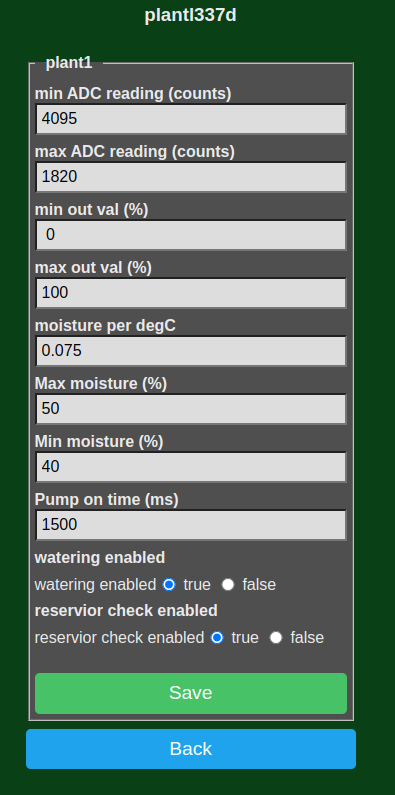
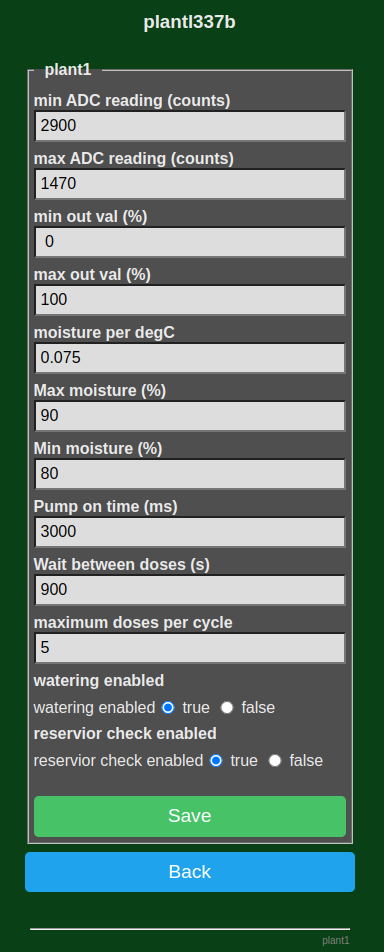
Document new watering configuration options. (#18)
* Document new watering configuration options.
* update watering config image

diff --git a/instructions.md b/instructions.md
@@ -48,7 +48,12 @@ Then, for each plant to be watered:
 
     ![web MQTT config](images/web-mqtt-config.png)
 
-12. In the device web interface, select the plant to be configured, then press "Configure".  Select the minimum and maximum soil moisture levels you want, and select the number of seconds you want the pump to run at each iteration of watering.  Try 1 second for a small pot and 3 seconds for a medium-sized pot. You can also calibrate the moisture sensor. Put the moisture sensor in a glass of water so that all except the cap is covered by water, and enter the ADC reading as the "max ADC reading". Remove the sensor out of the glass and dry it off, then enter the ADC reading as the "min ADC reading." Confusingly, the counts for the max reading should be less than the counts for the min reading, because max and min here refer to the moisture level not the counts.
+12. In the device web interface, select the plant to be configured, then press "Configure".
+
+  - Select the minimum and maximum soil moisture levels you want, and select the number of seconds you want the pump to run at each iteration of watering.  Try 1 second for a small pot and 3 seconds for a medium-sized pot.
+  - You can also calibrate the moisture sensor. Put the moisture sensor in a glass of water so that all except the cap is covered by water, and enter the ADC reading as the "max ADC reading". Remove the sensor out of the glass and dry it off, then enter the ADC reading as the "min ADC reading." Confusingly, the counts for the max reading should be less than the counts for the min reading, because max and min here refer to the moisture level not the counts.
+  - You can set the time to wait between pump doses, which allows water to to spread through the soil and to the moisture sensor. The default is 15 minutes (900 seconds).
+  - There is a safety feature to prevent over-watering if there is a problem with moisture sensing. After a maximum number of pump doses in a watering cycle, watering will pause for 12 hours before watering can continue. The default maximum number of doses is 5, but this can be changed.
 
     ![web watering config](images/web-water-config.png)
 
